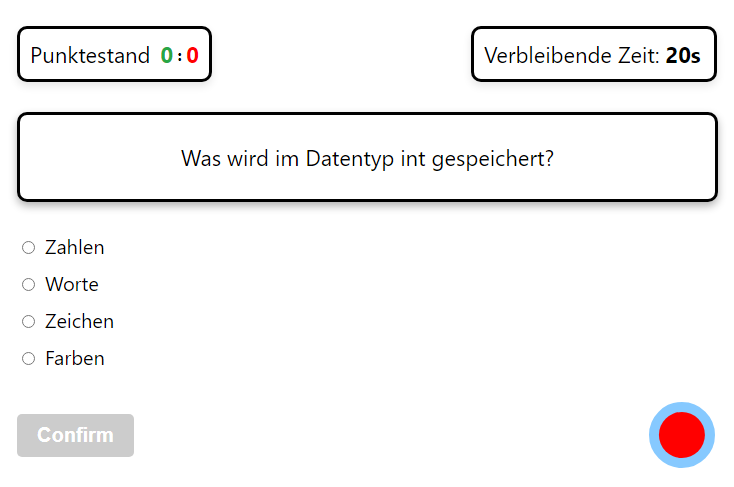
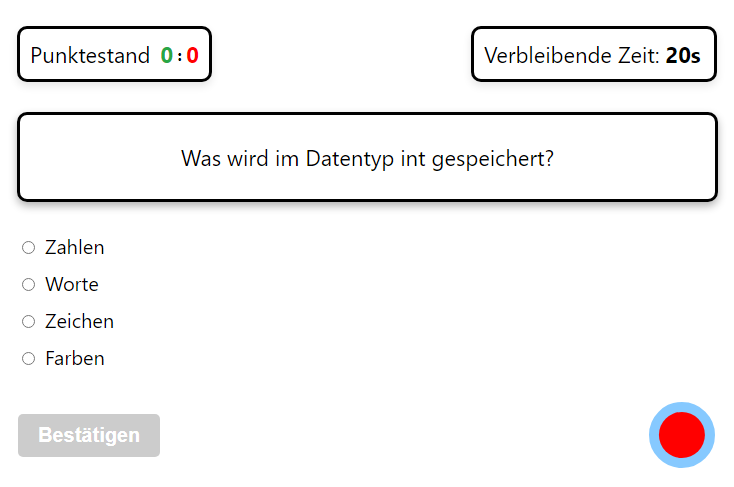
[UPDATE] Finished slideshow for manipulation game and adjusted language of confirm button in buzzer game

Changed region(s): [[0.0599, 0.8316, 0.2398, 0.9548]]

diff --git a/src/pages/codeBattlePage/CodeBattlePage.jsx b/src/pages/codeBattlePage/CodeBattlePage.jsx
@@ -9,7 +9,6 @@ import buzzerSlide2 from '../../assets/buzzerSlide2.png';
 import buzzerSlide3 from '../../assets/buzzerSlide3.png';
 import manipulationSlide1 from '../../assets/manipulationSlide1.png';
 import manipulationSlide2 from '../../assets/manipulationSlide2.png';
-import manipulationSlide3 from '../../assets/manipulationSlide03.png';
 import buzzerGrayImg from '../../assets/buzzerGameGray.png';
 import manipulationGrayImg from '../../assets/manipulationGameGray.png';
 import limitationGrayImg from '../../assets/limitationGameGray.png';
@@ -30,7 +29,7 @@ import {useNavigate} from 'react-router-dom';
 import {socket, startBuzzerQueue, leaveBuzzerQueue, startManipulationQueue, leaveManipulationQueue} from '../../socket.js';
 import {PlayerContext} from "../../context/playerContext.jsx";
 import {BuzzerPlayerContext} from "../../context/buzzerQuestionContext.jsx";
-import { ManipulationPlayerContext } from "../../context/manipulationQuestionContext.jsx";
+import {ManipulationPlayerContext} from "../../context/manipulationQuestionContext.jsx";
 import {URL} from '../../../url.js';
 
 /*
@@ -245,15 +244,12 @@ function CodeBattlePage() {
 
     const manipulationSlideTexts = [
         "Zu Beginn erhältst du einen Codeausschnitt, den du so manipulieren musst, dass dieser nicht mehr kompiliert. Du hast nur eine begrenzte Anzahl an Zeichen zur Verfügung. Der Parameterwert ist der Wert, mit dem die Funktion innerhalb des nicht gezeigten console.log() im Hintergrund aufgerufen wird. Die Konsolenausgabe ist der erwartete Wert bei erfolgreicher Kompilierung. Jedes eingegebene 'console.log()' wird vom Compiler ignoriert und zählt nicht zur Manipulation. Sobald du fertig bist, klicke auf den Bestätigen Button.",
-        "Warte bis dein Gegner mit seiner Manipulation fertig ist.",
-        "Nachdem dein Gegner fertig ist, bekommst du seinen manipulierten Code, den du reparieren musst. Sobald du fertig bist, klicke auf den Kompilieren Button. Falls dein Code erfolgreich kompiliert, bekommst du einen Punkt. Der Spieler mit den meisten Punkten nach 3 Runden gewinnt das Spiel."
+        "Nachdem dein Gegner fertig ist, bekommst du seinen manipulierten Code, den du reparieren musst. Sobald du fertig bist, klicke auf den Kompilieren Button. Du wirst keine Konsolenausgabe sehen, weil die Kompilierung im Hintergrund erfolgt. Falls dein Code erfolgreich kompiliert, bekommst du einen Punkt. Der Spieler mit den meisten Punkten nach 3 Runden gewinnt das Spiel."
     ];
 
     const manipulationSlides = [
         { header: "Manipulation", text: manipulationSlideTexts[0], image: manipulationSlide1 },
         { header: "Manipulation", text: manipulationSlideTexts[1], image: manipulationSlide2 },
-        { header: "Manipulation", text: manipulationSlideTexts[2], image: manipulationSlide3 },
-
     ];
 
     const limitationInfoText = 

diff --git a/src/pages/multipleChoicePage/MultipleChoicePage.jsx b/src/pages/multipleChoicePage/MultipleChoicePage.jsx
@@ -278,7 +278,7 @@ const MultipleChoicePage = () => {
                             {buzzerQuestion.danswer}
                         </label>
                         <div className={styles.buttonRow}>
-                            <ConfirmButton isButtonDisabled={isConfirmButtonDisabled} handleSubmit={handleSubmit}/>
+                            <ConfirmButton isButtonDisabled={isConfirmButtonDisabled} handleSubmit={handleSubmit} buttonText={"Bestätigen"}/>
                             <BuzzerButton toggle={toggleButton} disabled={isBuzzerButtonDisabled}/>
                         </div>
                     </form>
